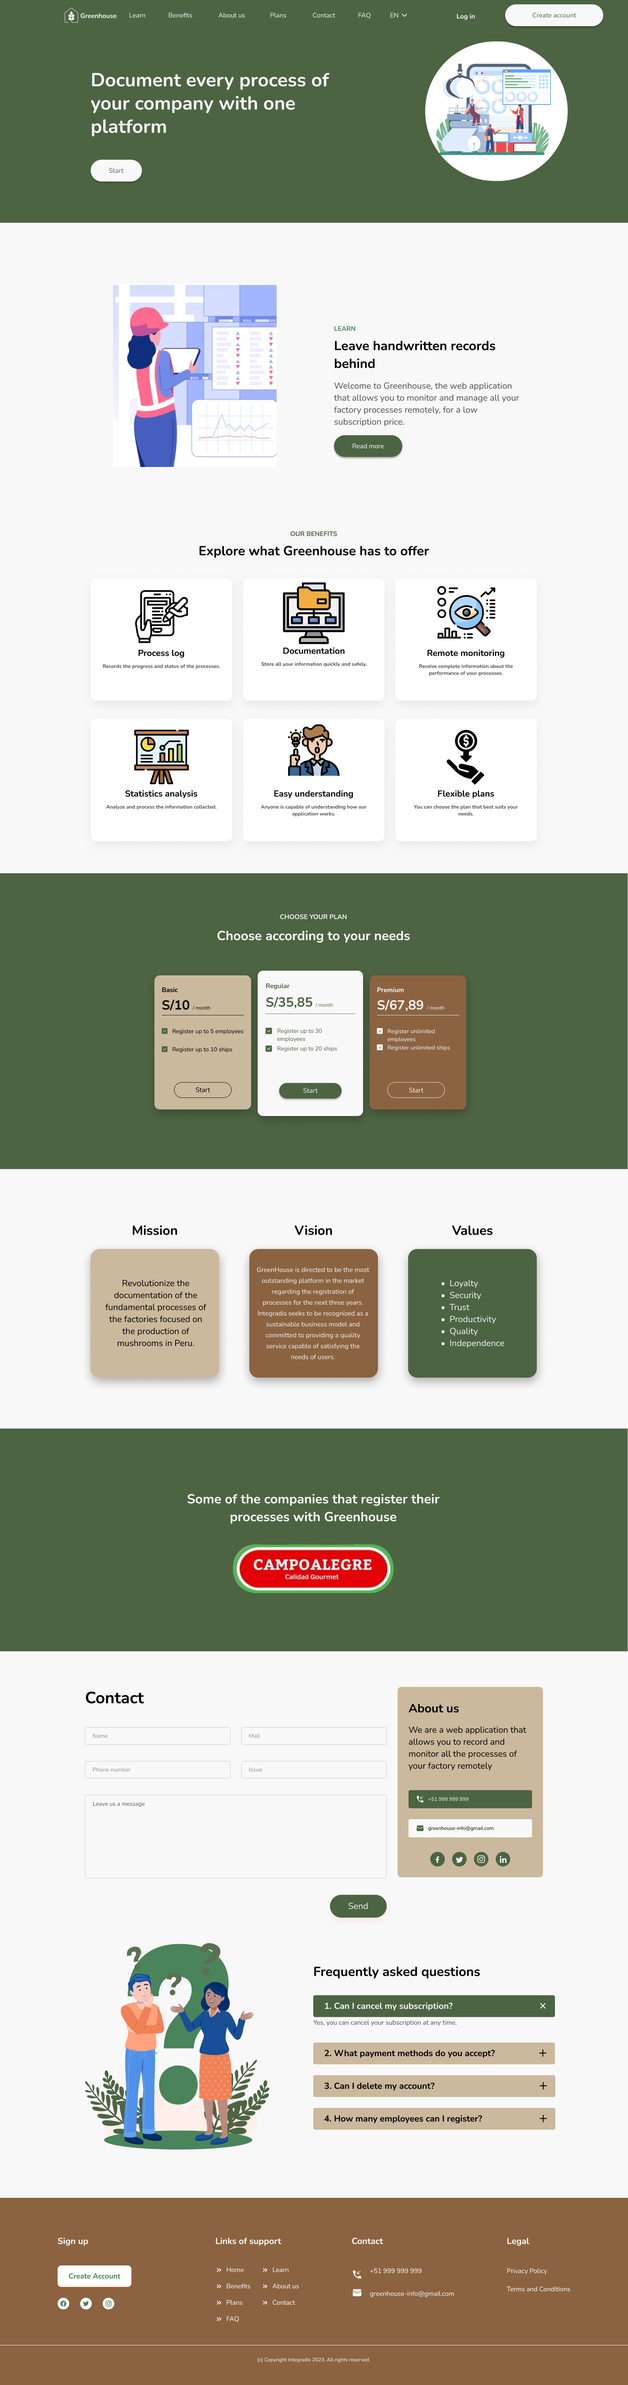
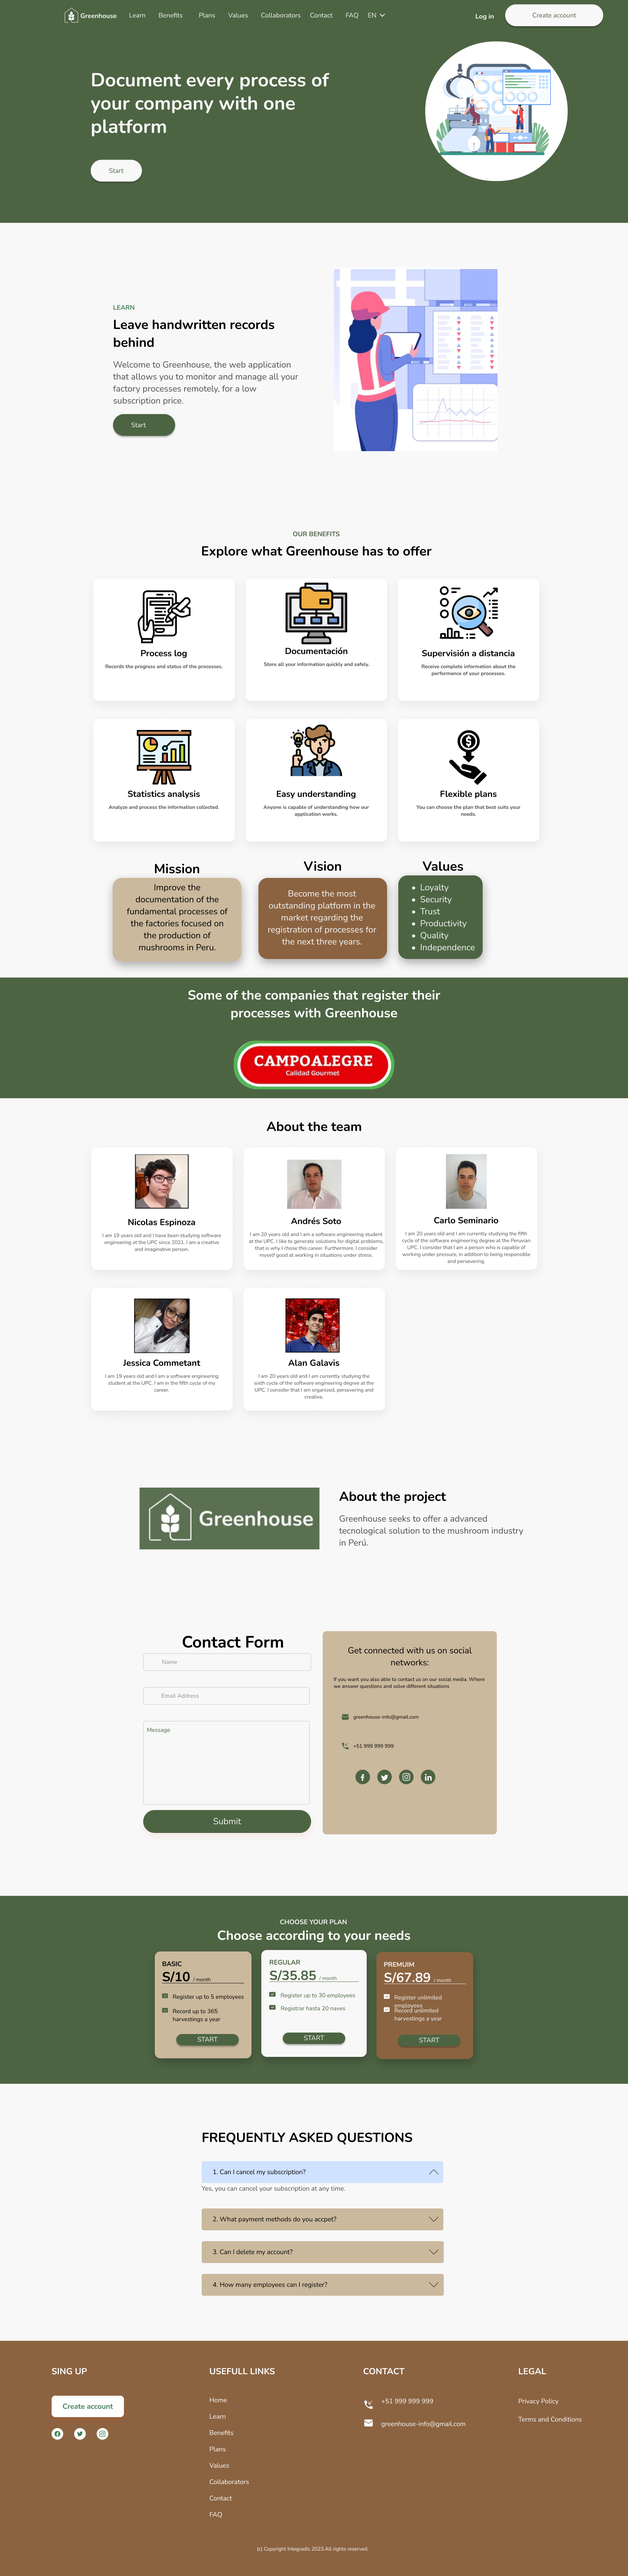
chore: updated Landing Page UI Design

diff --git a/README.md b/README.md
@@ -861,25 +861,25 @@ En la aplicación, los usuarios recorrerán el proceso de cultivo con secciones 
 ### 3. **Landing Page UI Design.**
 ####     3.1. Landing Page Wireframe.
 ##### Landing Page para Desktop Web Browser
-![Landing_Page_Desktop_Wireframe](https://github.com/Integradis-OpenSource/TFDocOpenSource/blob/develop/Imagenes/Landing_Page_Wireframe.png?raw=true)
+![Landing_Page_Wireframe](https://github.com/upc-pre-202302-si730-sw51-integradis/TFAplicacionesWeb/assets/103398708/f5feffb0-1718-4e45-b1b8-f6e6ff684818)
 
 ##### Landing Page para Mobile Web Browser
-![Landing_Page_Mobile_Wireframe](https://github.com/Integradis-OpenSource/TFDocOpenSource/blob/develop/Imagenes/Landing_Page_Mobile_Wireframe.png?raw=true)
+![Landing_Page_Mobile_Wireframe](https://github.com/upc-pre-202302-si730-sw51-integradis/TFAplicacionesWeb/assets/103398708/104f6722-40ba-4ca4-ab47-5e0173e50b8f)
 
 ####     3.2. Landing Page Mock-up.
 ##### Landing page en español
 ###### Landing Page para Desktop Web Browser
-![Landing_Page_Desktop_Mockup_ES](https://github.com/Integradis-OpenSource/TFDocOpenSource/blob/develop/Imagenes/Landing_Page_ES_Mockup.png?raw=true)
+![Landing_Page_ES_Mockup](https://github.com/upc-pre-202302-si730-sw51-integradis/TFAplicacionesWeb/assets/103398708/25e3717d-f742-4c1c-be6b-36e0d593b9f4)
 
 ###### Landing Page para Mobile Web Browser
-![Landing_Page_Mobile_Mockup_ES](https://github.com/Integradis-OpenSource/TFDocOpenSource/blob/develop/Imagenes/Landing_Page_ES_Mockup_Mobile.png?raw=true)
+![Landing_Page_ES_Mockup_Mobile](https://github.com/upc-pre-202302-si730-sw51-integradis/TFAplicacionesWeb/assets/103398708/22f1dab0-91e0-4a77-aab7-70cc97c5f8b1)
 
 ##### Landing page en inglés
 ###### Landing Page para Desktop Web Browser
-![Landing_Page_Desktop_Mockup_EN](https://github.com/Integradis-OpenSource/TFDocOpenSource/blob/develop/Imagenes/Landing_Page_EN_Mockup.png?raw=true)
+![Landing_Page_EN_Mockup](https://github.com/upc-pre-202302-si730-sw51-integradis/TFAplicacionesWeb/assets/103398708/90e0d29d-c30c-4386-9ea0-10301c4f8c13)
 
 ##### Landing Page para Mobile Web Browser
-![Landing_Page_Mobile_Mockup_EN](https://github.com/Integradis-OpenSource/TFDocOpenSource/blob/develop/Imagenes/Landing_Page_EN_Mockup_Mobile.png?raw=true)
+![Landing_Page_EN_Mockup_Mobile](https://github.com/upc-pre-202302-si730-sw51-integradis/TFAplicacionesWeb/assets/103398708/ce426be5-d685-4725-9458-9ac060850196)
 
 
 ### 4. **Web Applications UX/UI Design.**
